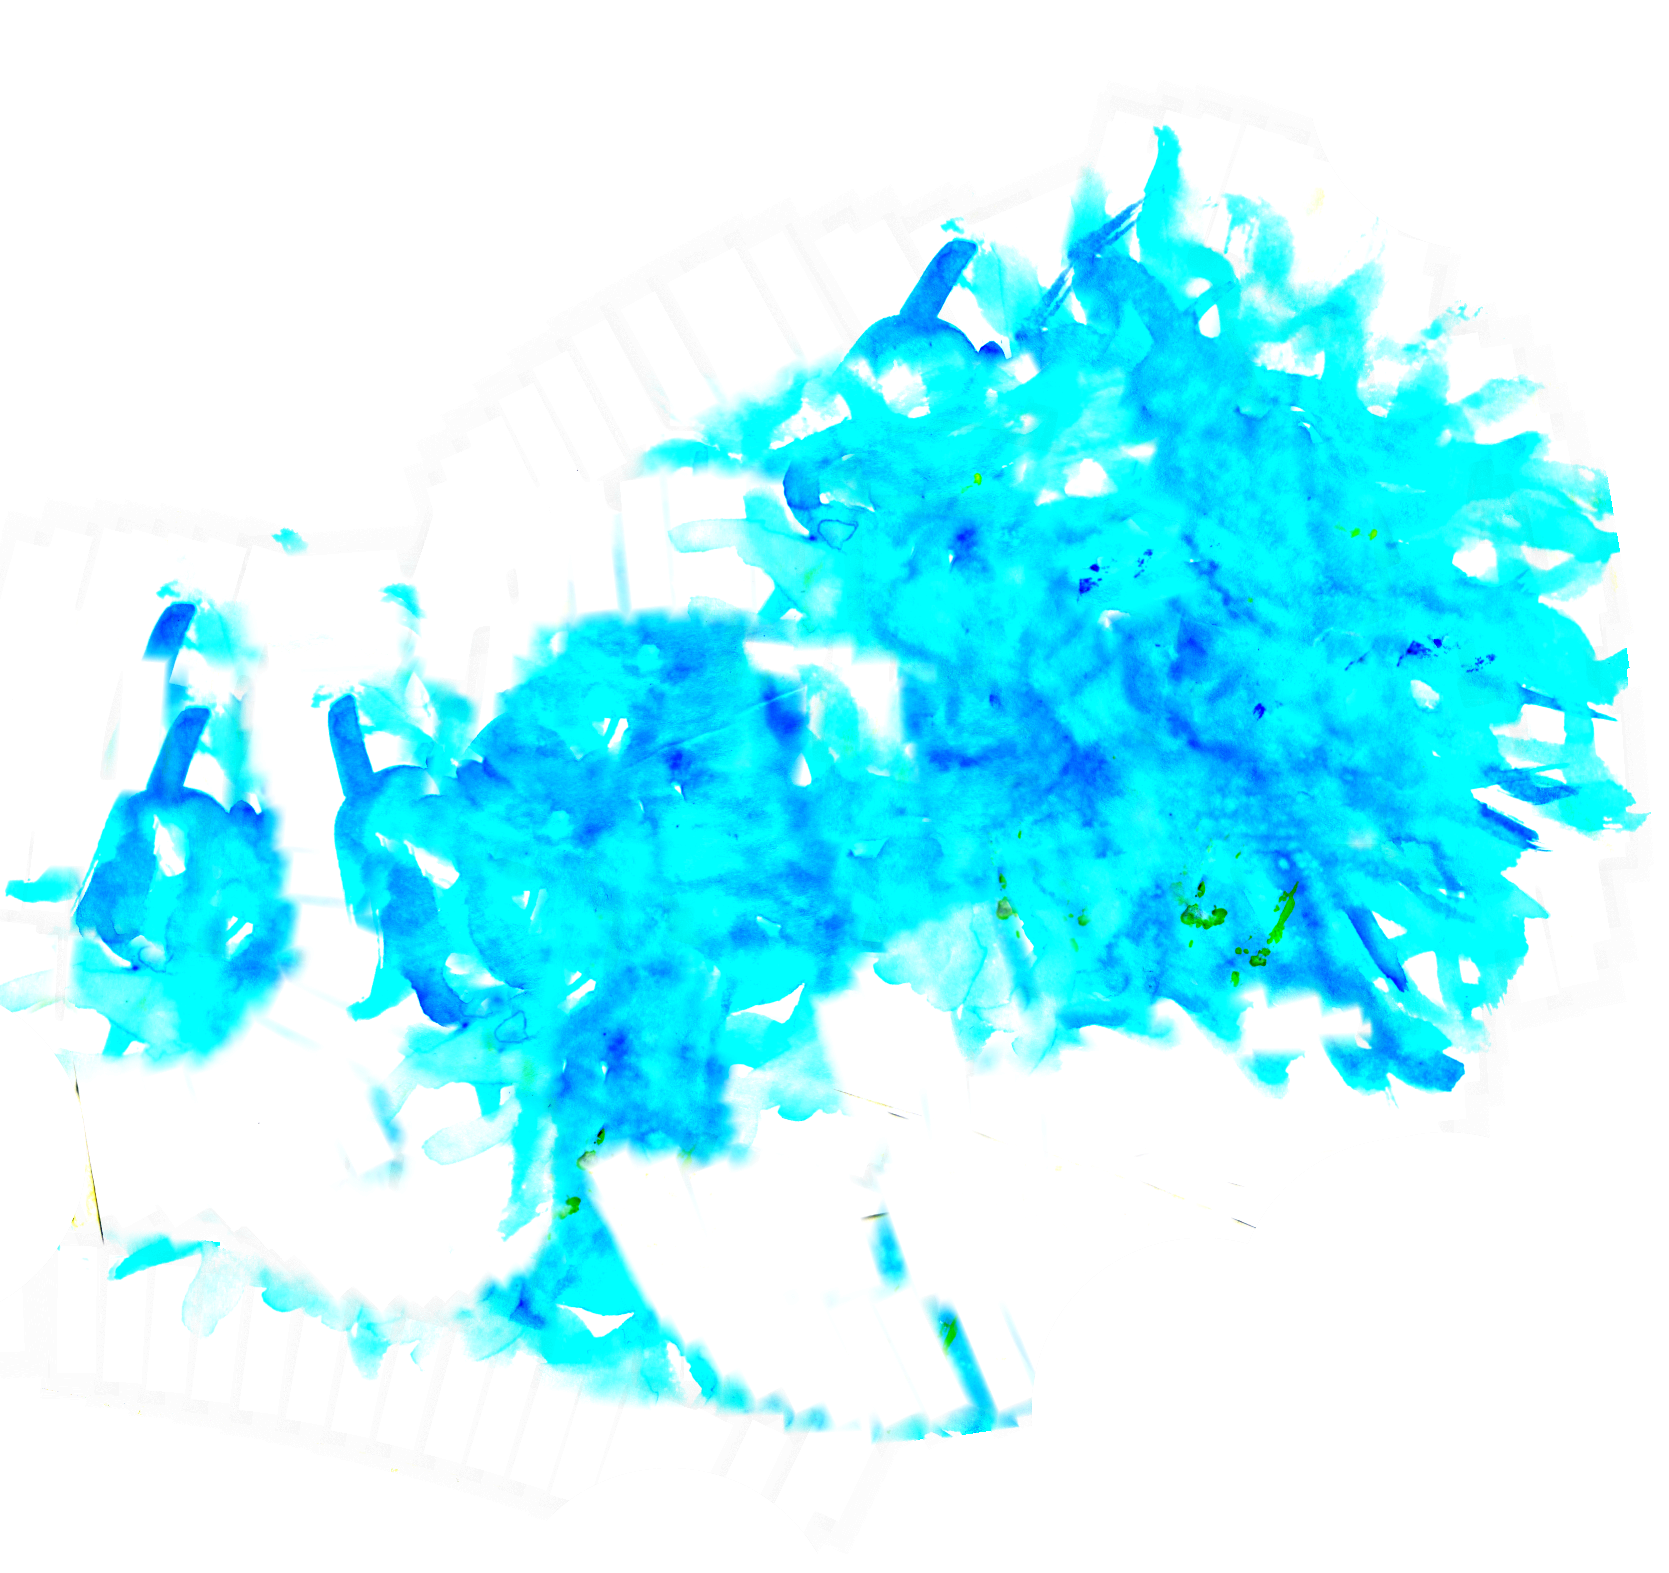
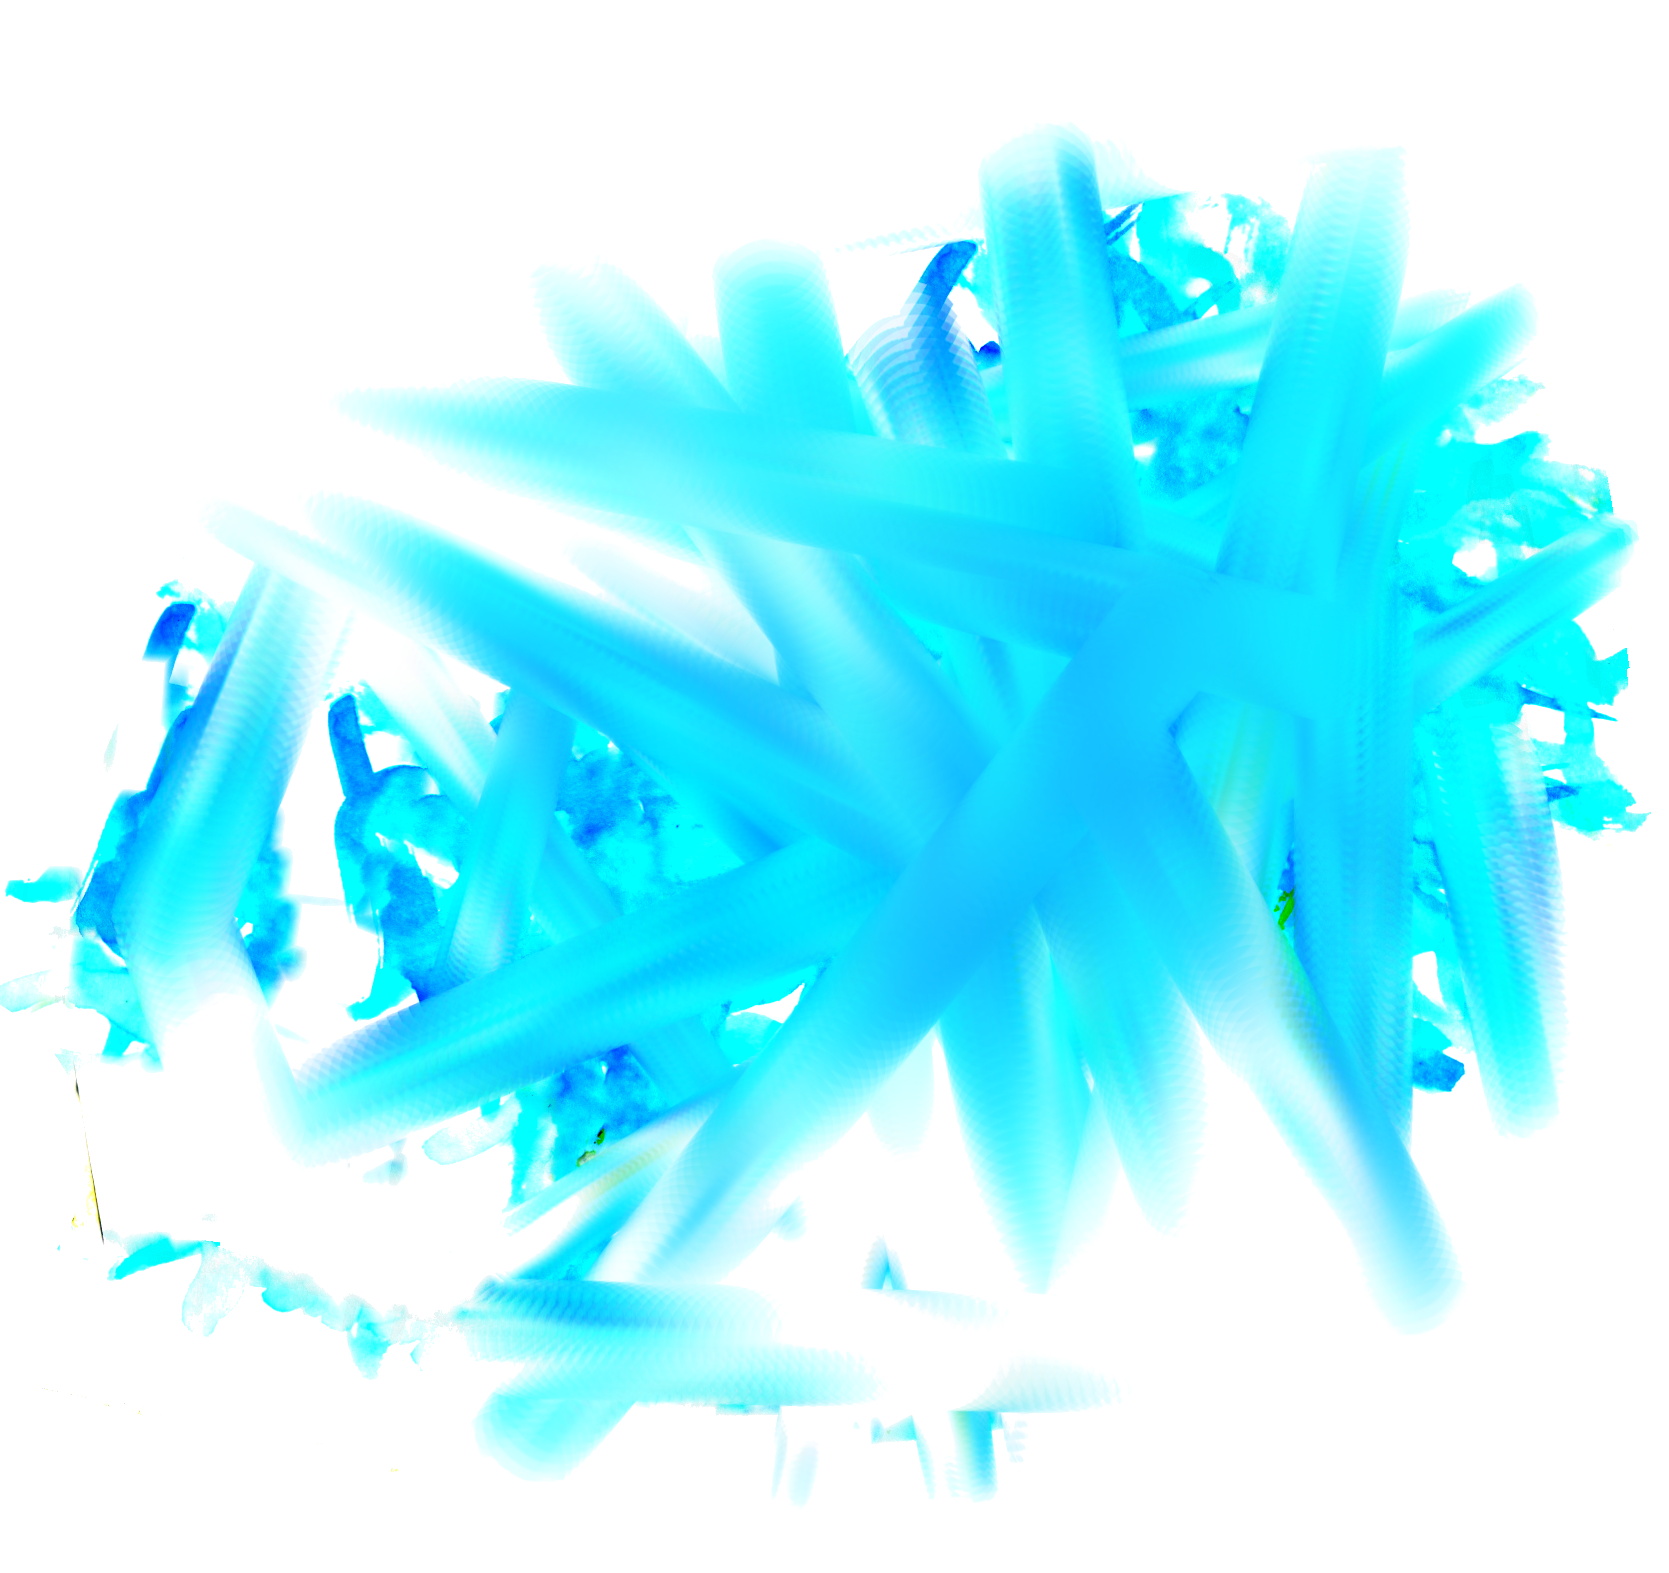
[App][PH] upravy terenu

diff --git a/app/js/graphic.js b/app/js/graphic.js
@@ -23,6 +23,8 @@ if((localStorage.getItem('map_x')/1) != NaN && (localStorage.getItem('map_y')/1)
 
 }
 
+r(map_x,map_y);
+
 /*var map_x=0;
 var map_y=0;*/
 
@@ -175,7 +177,7 @@ $(function() {
 
 
             all_images_bg[terrain][seed] = new Image();
-            all_images_bg[terrain][seed].src = 'app/graphic/terrain.php?terrain=t' + (terrain+1)/*Teren 0 je temnota*/ + '&seed=' + seed + '&size=250';
+            all_images_bg[terrain][seed].src = 'app/graphic/terrain.php?terrain=t' + (terrain+1)/*Teren 0 je temnota*/ + '&seed=' + seed + '&size=160';
 
             all_images_bg[terrain][seed].onload = imageLoad;
 
@@ -437,10 +439,12 @@ function drawMap() {
 
 
                     var z = (Math.pow(map_z_data[y][x], (1 / 12)) - 0.85) * -6000;
+                    //var z=0;
                     //r(map_z_data[y][x]);
 
 
-                    var size = (Math.sin((world_x * world_y) / 10) / 4) + 1;
+                    //var size = (Math.sin((world_x * world_y) / 10) / 4) + 1.25;
+                    var size=1;
 
                     var width = Math.ceil(160 * size * 3 * map_zoom_m);
                     var height = Math.ceil(width * size /* map_zoom_m*/);

diff --git a/app/graphic/terrain.php b/app/graphic/terrain.php
@@ -98,30 +98,50 @@ if(!file_exists($cachefile) or isset($_GET['notmp'])/** or 1/**/) {
             $shape = imagecreatefromjpeg($fileshape_jpg);
 
 
-        $white = imagecolorallocate($shape,255, 255, 255);
         $transparent = imagecolorallocatealpha($shape,255, 255, 255,127);
+        /*$white = imagecolorallocate($shape,255, 255, 255);
+        $black = imagecolorallocate($shape,0, 0, 0);
 
+        imagealphablending($shape,false);
 
-        //imagecolortransparent($shape,$white);
+        for($y=1;$y<imagesy($shape);$y++){
+            for($x=1;$x<imagesx($shape);$x++){
 
+                $color = imagecolorat($shape, $x, $y);
+                $r = ($color >> 16) & 0xFF;
+                $g = ($color >> 8) & 0xFF;
+                $b = $color & 0xFF;
 
-        $shapeA = imagerotate($shape, rand(0,360),$white);
-        $shapeB = imagerotate($shape, rand(0,360),$white);
+                if($r+$b+$b>255+255+255-30){
+                    imagesetpixel($shape, $x, $y, $transparent);
+                }
+            }
+
+        }
+
+        imagesavealpha($shape,true);
+        header('Content-Type: image/png');
+        imagepng($shape);
+        exit;*/
+
+        //echo($r.','.$g.','.$b);
+        //exit;
+
+        $shapeA = imagerotate($shape, rand(0,360),$transparent);
+        $shapeB = imagerotate($shape, rand(0,360),$transparent);
+
+        //imagecolortransparent($shapeA,$white);
+        //imagecolortransparent($shapeB,$white);
 
         //$shape = imagecreate(imagesx($shape),imagesy($shape));//todo [PH] lepe
 
         imagealphablending($shape,true);
 
-        imagecopyresized($shape,$shapeB,0,imagesy($shape)*(1/3),0,0,imagesx($shape),imagesy($shape)*(2/3),imagesx($shape),imagesy($shape));
-        imagecopyresized($shape,$shapeA,0,imagesy($shape)*(0/2),0,0,imagesx($shape),imagesy($shape)*(2/3),imagesx($shape),imagesy($shape));
+        imagecopyresized($shape,$shapeB,0,imagesy($shape)*(1/3),0,0,imagesx($shape),imagesy($shape)*(2/3),imagesx($shapeB),imagesy($shapeB));
+        imagecopyresized($shape,$shapeA,0,imagesy($shape)*(0/2),0,0,imagesx($shape),imagesy($shape)*(2/3),imagesx($shapeA),imagesy($shapeA));
 
 
-        /*$color = imagecolorat($shape, 5, 5);
-        $r = ($color >> 16) & 0xFF;
-        $g = ($color >> 8) & 0xFF;
-        $b = $color & 0xFF;
-        echo($r.','.$g.','.$b);
-        exit;*/
+        /**/
 
 
 
